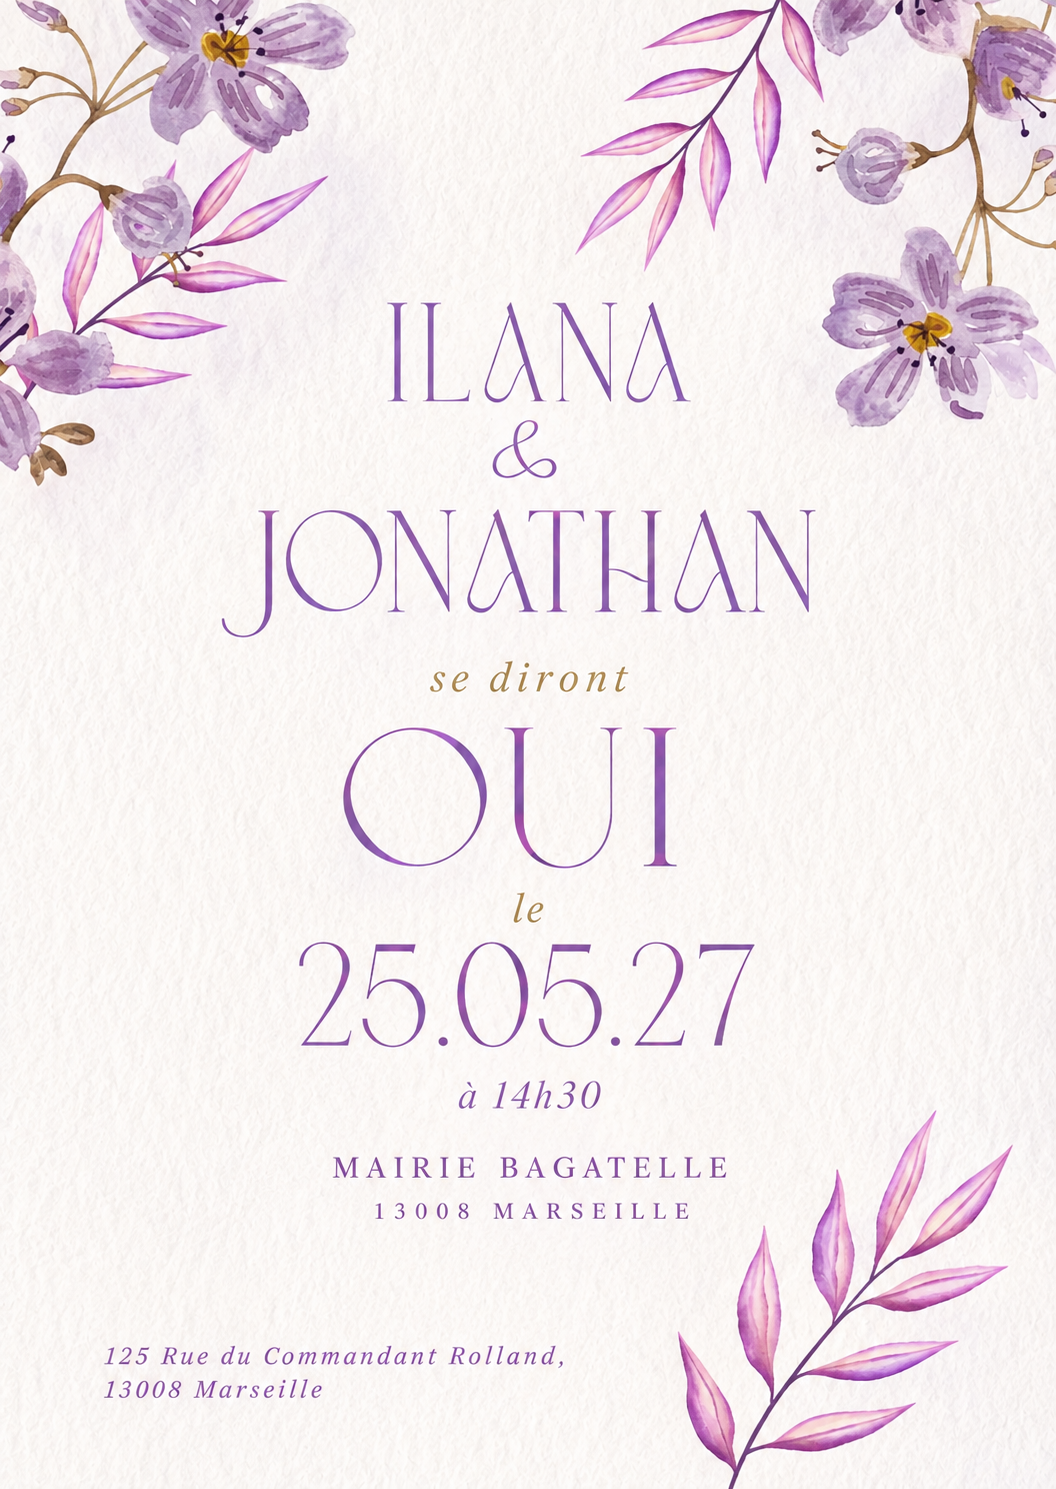
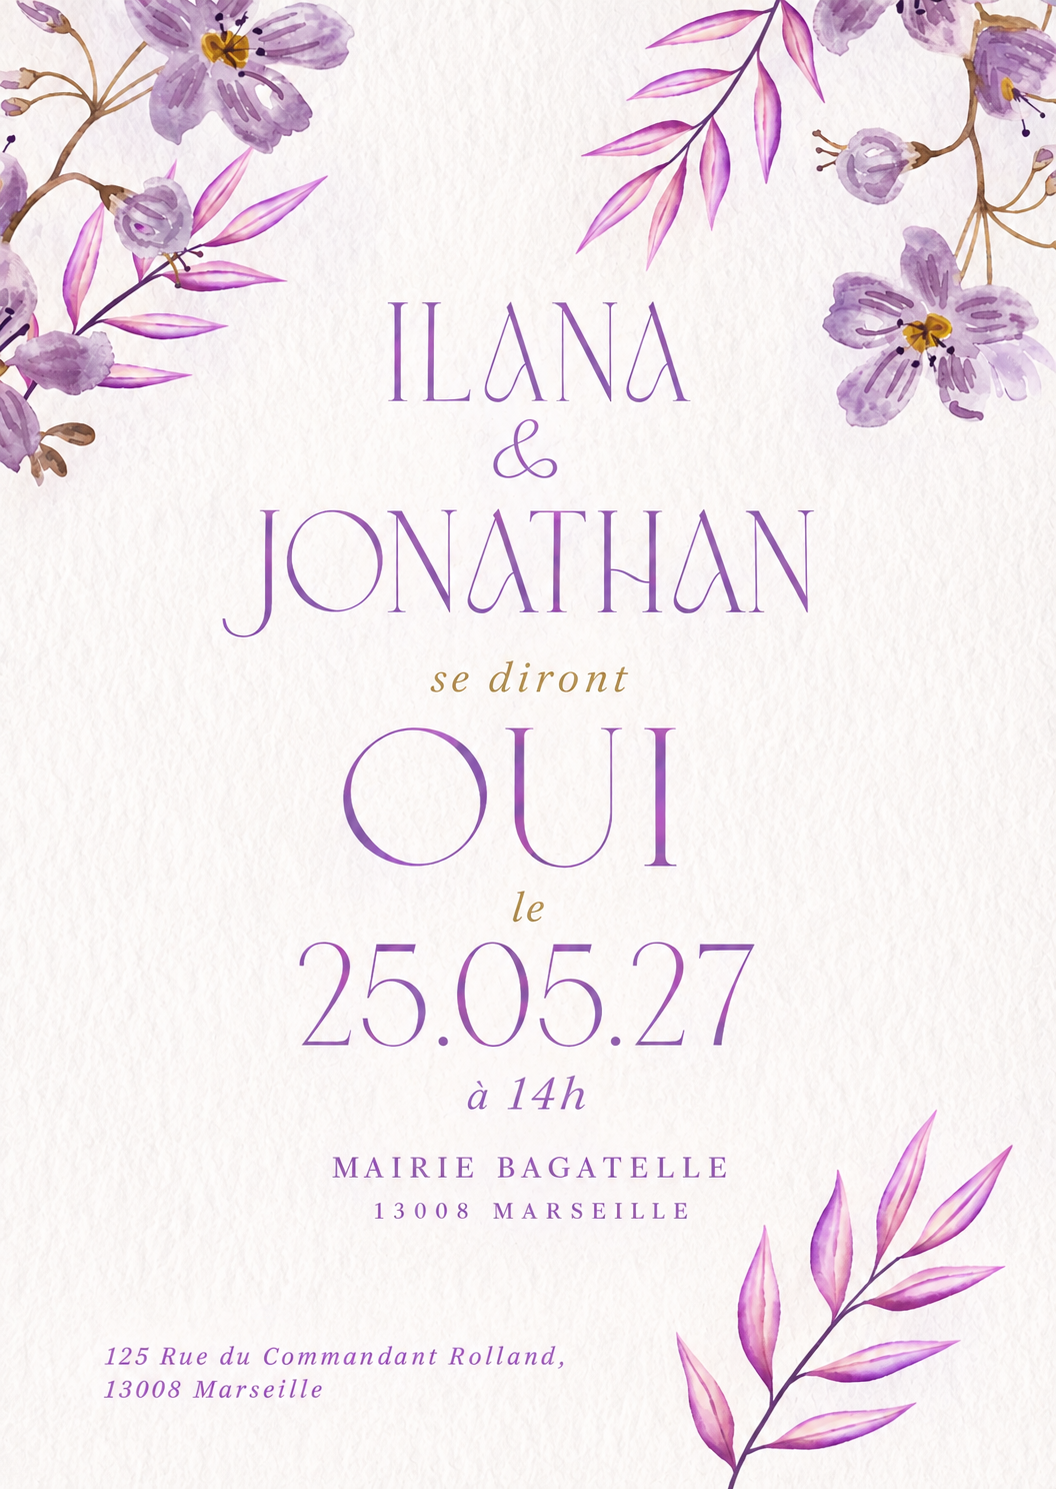
Enhance layout and styling in index.html: add flexbox properties, introduce page titles with improved typography, and update section accessibility attributes. Update mairie1.png image file.

diff --git a/index.html b/index.html
@@ -143,13 +143,26 @@ button { font: inherit; }
 .page {
   min-height: 100dvh;
   display: flex;
+  flex-direction: column;
   align-items: center;
   justify-content: center;
+  gap: 1rem;
   padding: max(1rem, env(safe-area-inset-top)) 0.75rem max(1.25rem, env(safe-area-inset-bottom));
   background-color: var(--bg);
   background-image: url('fondpapier.png');
   background-size: cover;
   background-position: center;
+}
+
+.page-title {
+  margin: 0;
+  font-family: 'Cormorant Garamond', serif;
+  font-weight: 600;
+  font-size: clamp(0.8rem, 3vw, 0.95rem);
+  letter-spacing: 0.32em;
+  text-transform: uppercase;
+  color: var(--accent-deep);
+  text-align: center;
 }
 
 .page img {
@@ -216,10 +229,12 @@ button { font: inherit; }
   </button>
 
   <main id="pages">
-    <section class="page" aria-label="La Mairie">
+    <section class="page" aria-labelledby="titleMairie">
+      <h2 class="page-title" id="titleMairie">La Mairie</h2>
       <img src="mairie1.png" alt="Invitation — La Mairie : Ilana et Jonathan se diront oui le 25 mai 2027 à 14h30, Mairie Bagatelle, Marseille" width="1056" height="1489" decoding="async">
     </section>
-    <section class="page" aria-label="La Houppa">
+    <section class="page" aria-labelledby="titleHouppa">
+      <h2 class="page-title" id="titleHouppa">La Houppa</h2>
       <img src="houppa3.png" alt="Invitation — La Houppa : cérémonie religieuse le jeudi 27 mai à 15h00 au Domaine des Calanques" width="941" height="1672" decoding="async" loading="lazy">
     </section>
   </main>
